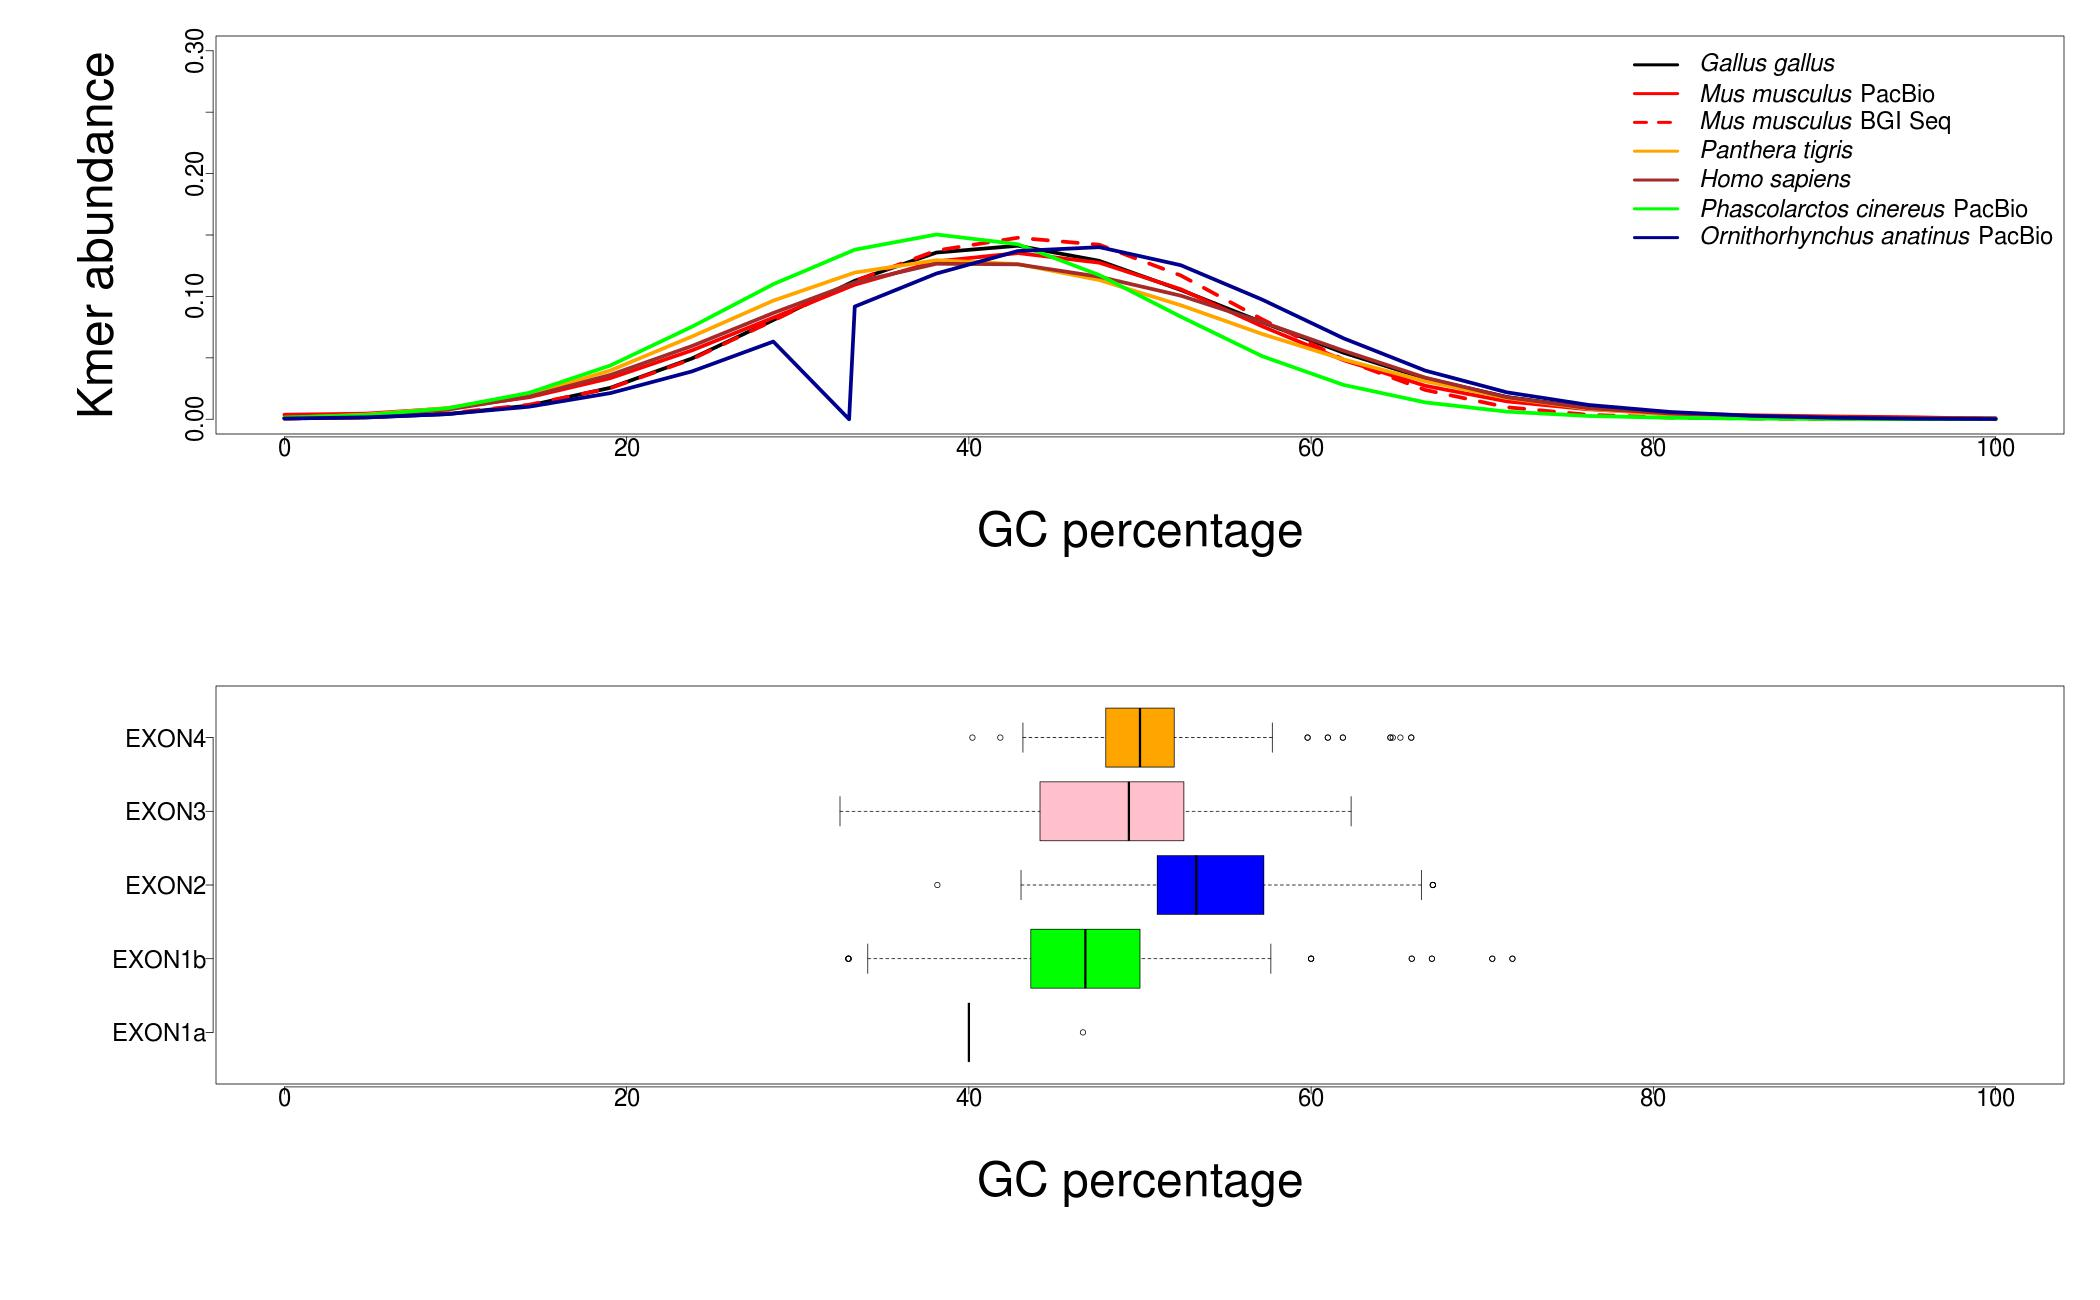
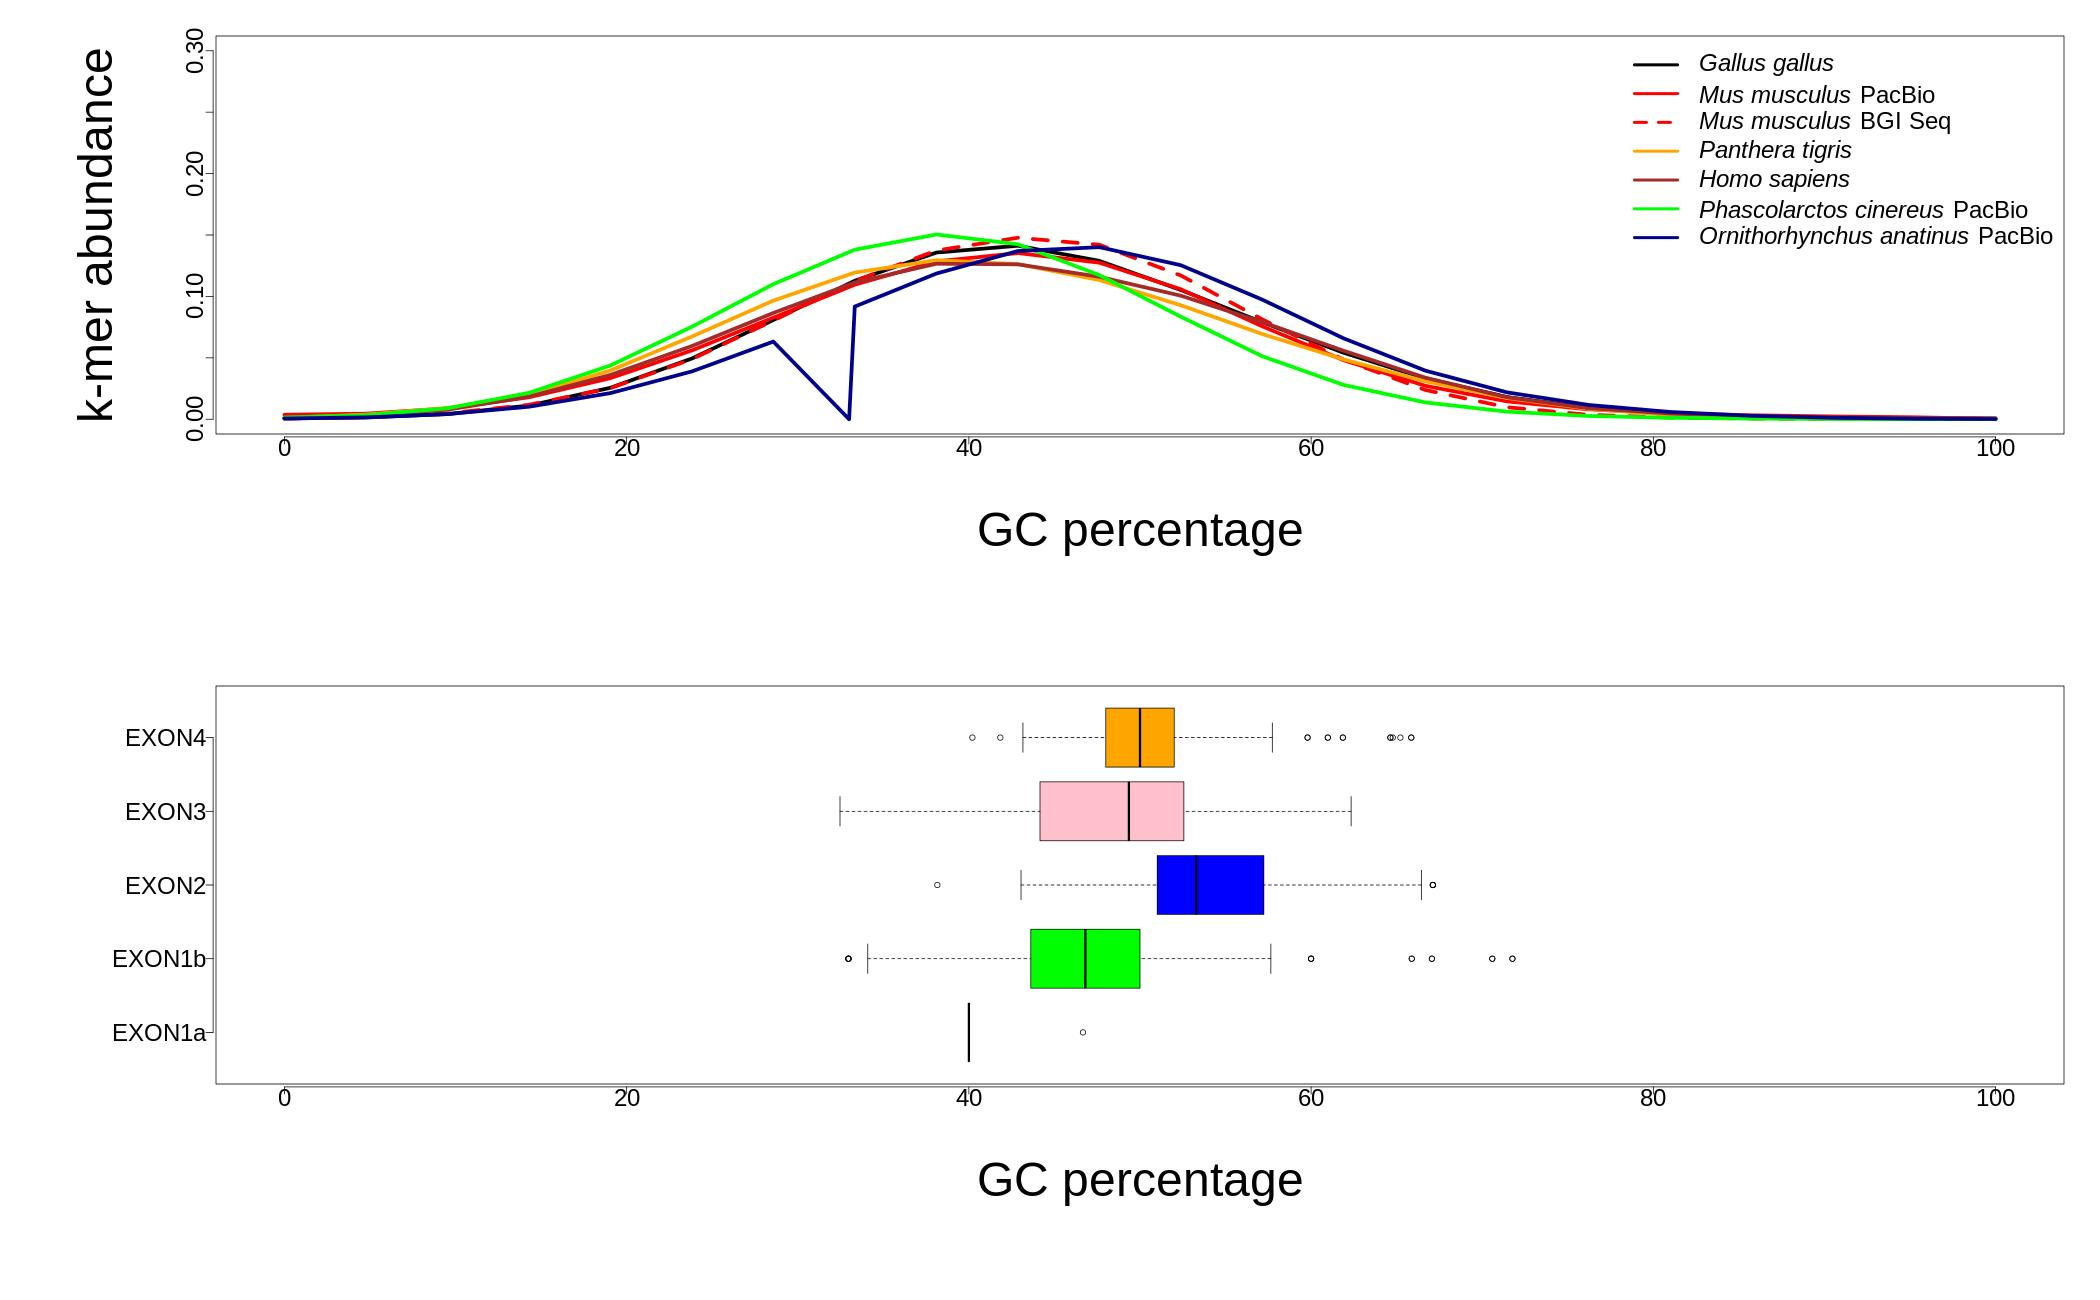
Add files via upload

diff --git a/supplementary_figure_data/supplementaryGC_vs_kmer_plot/README.md b/supplementary_figure_data/supplementaryGC_vs_kmer_plot/README.md
@@ -1,3 +1,4 @@
-## GC Vs. kmer abundance plot with different species using a variety of sequencing platforms
+## GC Vs. kmer abundance plot across variety of sequecing plateforms used for different species.
 
-The database fasta file is given as an input to get_GC.sh script which generates file with extension .counts. These output files are used for plotting. The all_gc_input.txt is taken from the supplementary table S20, where all the species' exonwise GC content was provided. This folder also contains the plotting_script.r, used to generate the figure "1final.jpeg".
+The input file with extension .counts is generated from get_GC.sh script provided earlier and the all_gc_input.txt is taken from the supplementary table S20 where the exonwise GC content of all the species is provided.
+This folder also contains the plotting_script.r, which is used to generate the figure "1final.jpeg".
